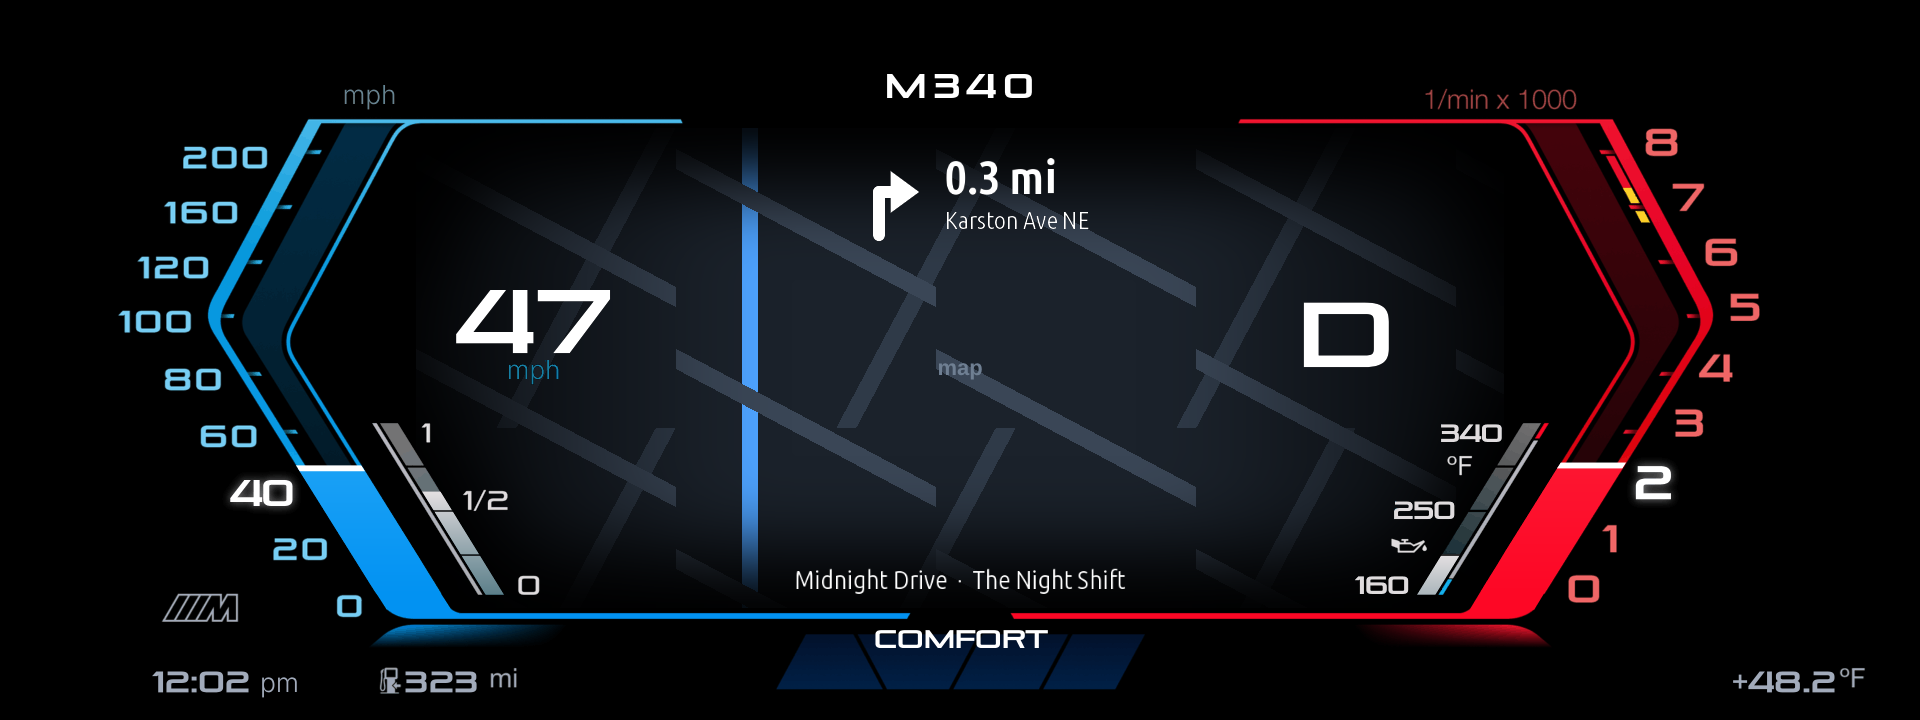
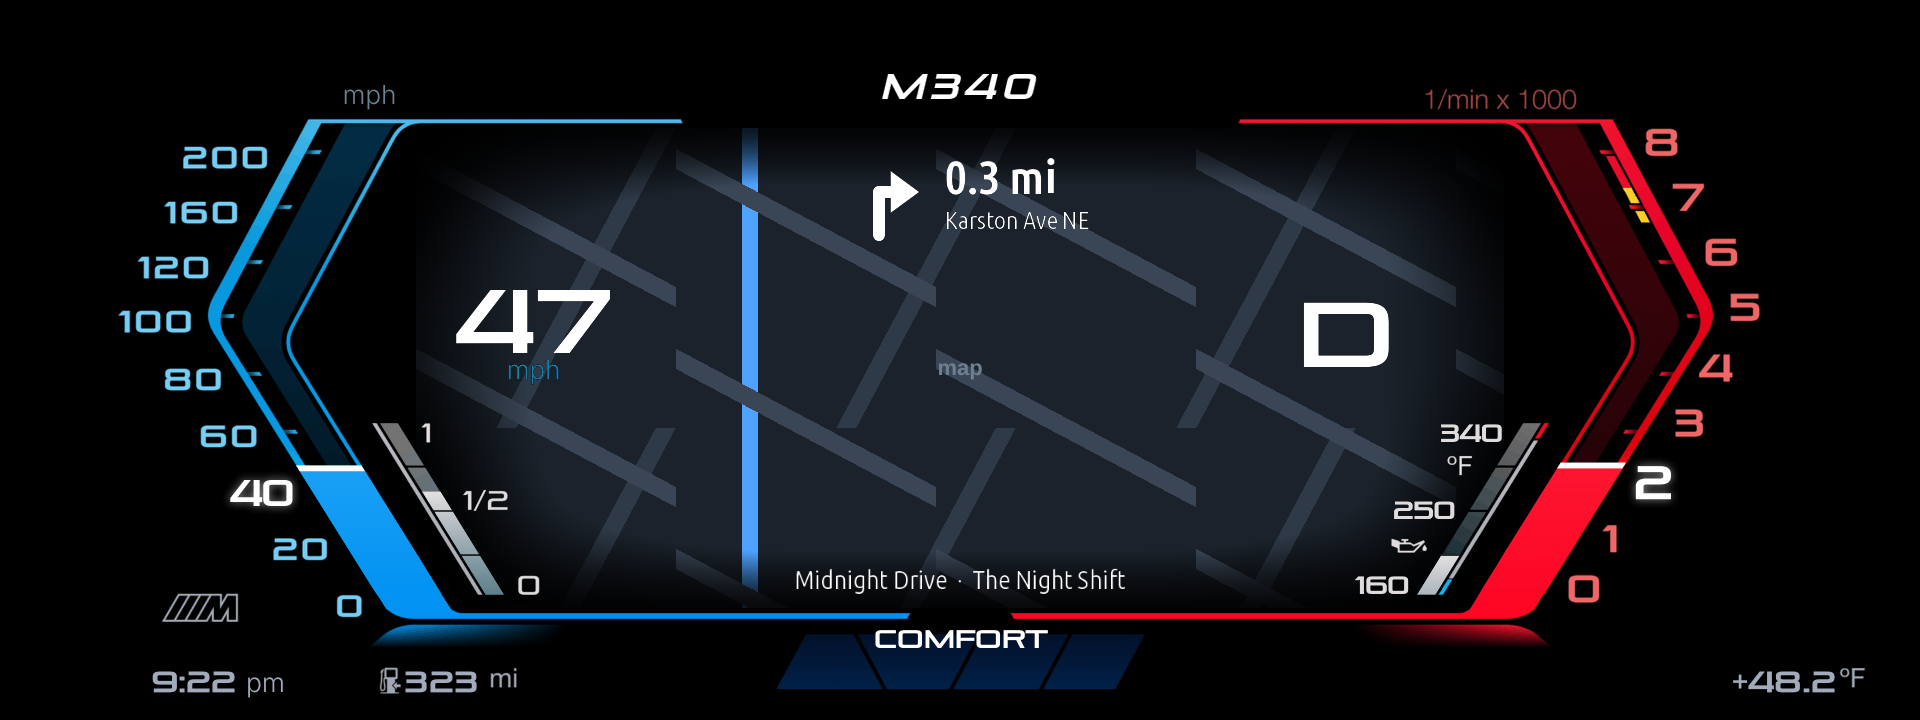
The song and the directions start on the car; the badge leans forward
The song (media.js) and the directions (directions.js) were started only when ctx.spec.signals declared their
interfaces, and the spec on the car (build.py's app-spec.json) has no signals: neither ever started on a car.
Cluster Layouts now asks for them (startData opts.media, opts.directions), and test_app runs on the car's spec
and checks both are watched. The M340 badge is baked leaning forward.
Cluster Layouts 0.32.1, Cluster Centre 0.9.5.

Claude-Session: https://claude.ai/code/session_01NEJZ4JkLAWdYBUEsKdjt1e

diff --git a/apps/cluster_layouts/m340_badge.js b/apps/cluster_layouts/m340_badge.js
@@ -1,8 +1,8 @@
 'use strict';
 /* GENERATED by tools/bake_badge.py: the M340i layout's badge ("M340", Pirulen) as an r8 picture. Do not edit. */
 const zlib = require('zlib');
-const BADGE = { w: 153, h: 32 };
[1 lines of base64/hex data omitted]
+const BADGE = { w: 163, h: 33 };
[1 lines of base64/hex data omitted]
 let px = null;
 /** The badge as a texture for a piece's `textures`. */
 function tex() {

diff --git a/tools/test_app.js b/tools/test_app.js
@@ -24,6 +24,9 @@ process.env.CLUSTER_INFO_DIR = fs.mkdtempSync(path.join(os.tmpdir(), 'ci-'));
 process.env.CLUSTER_SETTLE_MS = '0';
     process.env.CLUSTER_PRESENCE_DIR = fs.mkdtempSync(path.join(os.tmpdir(), 'cp-'));
 const SPEC = JSON.parse(fs.readFileSync(path.join(APP, 'app.json'), 'utf8'));
+// the app's spec on the car: build.py's runtime app-spec.json, without the signals
+const RT_SPEC = {};
+['id', 'title', 'version', 'screens', 'settings', 'config', 'startWidget'].forEach((k) => { RT_SPEC[k] = SPEC[k]; });
 const themes = require(path.join(KIT, 'themes'));
 const { Recorder: Canvas } = require(path.join(KIT, 'record'));
 const sleep = (ms) => new Promise((r) => setTimeout(r, ms));
@@ -33,14 +36,14 @@ const check = (name, fn) => { fn(); ok++; console.log('ok   ' + name); };
 (async () => {
     const S = {}, changes = [];
     SPEC.settings.forEach((s) => { S[s.key] = s.default; });
-    const handlers = {}, clicks = {}, warns = [];
+    const handlers = {}, clicks = {}, warns = [], watched = [];
     let pages = 0;
     const ctx = {
         app: {}, ui: { onClick(n, fn) { clicks[n] = fn; }, text() {}, image: async () => { pages++; } },
         settings: { get: (k) => S[k], set: (k, v) => { S[k] = v; changes.forEach((f) => f(k, v)); }, onChange(f) { changes.push(f); }, display: (k) => String(S[k]) },
         log: { info() {}, warn: (m) => warns.push(m), error: (m, e) => warns.push(m + ' ' + e) },
-        spec: SPEC, dataDir: fs.mkdtempSync(path.join(os.tmpdir(), 'cl-')),
-        signals: { watch: (iface, inst, h) => { Object.assign(handlers, h); return Promise.resolve({ available: true }); },
+        spec: RT_SPEC, dataDir: fs.mkdtempSync(path.join(os.tmpdir(), 'cl-')),
+        signals: { watch: (iface, inst, h) => { watched.push(iface); Object.assign(handlers, h); return Promise.resolve({ available: true }); },
             proxy: () => Promise.reject(new Error('no TASU here')), on: () => Promise.resolve(), onAvailable: () => Promise.resolve() },
         loop() {}, theme: () => themes.theme('m_tricolour'), canvas: (w, h) => new Canvas(w, h),
     };
@@ -51,6 +54,10 @@ const check = (name, fn) => { fn(); ok++; console.log('ok   ' + name); };
     check('every signal the app reads is declared in app.json', () => {
         const declared = [].concat(...Object.keys(SPEC.signals).map((i) => Object.keys(SPEC.signals[i])));
         Object.keys(handlers).forEach((h) => assert(declared.indexOf(h) >= 0, h));
+    });
+    check('the song and the directions are read with the spec the car has (no signals in it)', () => {
+        ['de.bmw.infotainment.hmi.hmimediastate.HmiMediaState', 'de.bmw.infotainment.navigation.guiding.Guidance',
+            'de.bmw.infotainment.a4a.carplay.CarPlayManager'].forEach((i) => assert(watched.indexOf(i) >= 0, i));
     });
     const eng = () => require(path.join(APP, 'engine')).startCluster.last;
     check('off by default: no layers at all (the stock cluster shows)', () => {

diff --git a/apps/cluster_centre/data.js b/apps/cluster_centre/data.js
@@ -320,9 +320,10 @@ function startData(ctx, opts) {
             if (p && p !== carPress) { carPress = p; log.info('car pressure unit: ' + p); }
         },
     }, 'units', { pollMs: 60000 });
-    /* the song the car's media player shows (media.js), for an app that declares the interface (Cluster Layouts):
+    /* the song the car's media player shows (media.js), for an app that asks for it (opts.media: Cluster Layouts, which
+     * declares the interface; the runtime spec on the car does not carry the declarations):
      * the centre screen's instance, each field's raw value kept for the Signals screen */
-    const media = (ctx.spec.signals || {})[Media.IFACE] ? Media.createMedia() : null;
+    const media = opts.media ? Media.createMedia() : null;
     if (media) {
         // (each change of what is read logged, with where each part came from: the log shows why a title is missing)
         let said = null;
@@ -337,9 +338,9 @@ function startData(ctx, opts) {
         }, log).then((sub) => { status.media = sub && sub.error ? 'error: ' + sub.error : 'subscribed'; log.info('media ' + status.media); })
             .catch((e) => { status.media = 'error: ' + ((e && e.message) || e); log.warn('media: ' + status.media); });
     }
-    /* the next turn while a route runs (directions.js), for an app that declares the guidance interfaces: asked only
+    /* the next turn while a route runs (directions.js), for an app that asks for it (opts.directions): asked only
      * while the M340i layout (the one that shows them) is shown with the car on and Settings > Directions is on */
-    const directions = (ctx.spec.signals || {})[Directions.EVENT_LIST.iface]
+    const directions = opts.directions
         ? Directions.startDirections(ctx, log, { wanted: () => active() && setting('directions') !== 'off' && setting('layout') === 'm340' }) : null;
     watch('de.bmw.infotainment.KombiIF', {
         statusRangeTankStatus: (v) => { fes('statusRangeTankStatus')(v); pickRanges(v); },

diff --git a/apps/cluster_layouts/data.js b/apps/cluster_layouts/data.js
@@ -320,9 +320,10 @@ function startData(ctx, opts) {
             if (p && p !== carPress) { carPress = p; log.info('car pressure unit: ' + p); }
         },
     }, 'units', { pollMs: 60000 });
-    /* the song the car's media player shows (media.js), for an app that declares the interface (Cluster Layouts):
+    /* the song the car's media player shows (media.js), for an app that asks for it (opts.media: Cluster Layouts, which
+     * declares the interface; the runtime spec on the car does not carry the declarations):
      * the centre screen's instance, each field's raw value kept for the Signals screen */
-    const media = (ctx.spec.signals || {})[Media.IFACE] ? Media.createMedia() : null;
+    const media = opts.media ? Media.createMedia() : null;
     if (media) {
         // (each change of what is read logged, with where each part came from: the log shows why a title is missing)
         let said = null;
@@ -337,9 +338,9 @@ function startData(ctx, opts) {
         }, log).then((sub) => { status.media = sub && sub.error ? 'error: ' + sub.error : 'subscribed'; log.info('media ' + status.media); })
             .catch((e) => { status.media = 'error: ' + ((e && e.message) || e); log.warn('media: ' + status.media); });
     }
-    /* the next turn while a route runs (directions.js), for an app that declares the guidance interfaces: asked only
+    /* the next turn while a route runs (directions.js), for an app that asks for it (opts.directions): asked only
      * while the M340i layout (the one that shows them) is shown with the car on and Settings > Directions is on */
-    const directions = (ctx.spec.signals || {})[Directions.EVENT_LIST.iface]
+    const directions = opts.directions
         ? Directions.startDirections(ctx, log, { wanted: () => active() && setting('directions') !== 'off' && setting('layout') === 'm340' }) : null;
     watch('de.bmw.infotainment.KombiIF', {
         statusRangeTankStatus: (v) => { fes('statusRangeTankStatus')(v); pickRanges(v); },

diff --git a/shared/data.js b/shared/data.js
@@ -320,9 +320,10 @@ function startData(ctx, opts) {
             if (p && p !== carPress) { carPress = p; log.info('car pressure unit: ' + p); }
         },
     }, 'units', { pollMs: 60000 });
-    /* the song the car's media player shows (media.js), for an app that declares the interface (Cluster Layouts):
+    /* the song the car's media player shows (media.js), for an app that asks for it (opts.media: Cluster Layouts, which
+     * declares the interface; the runtime spec on the car does not carry the declarations):
      * the centre screen's instance, each field's raw value kept for the Signals screen */
-    const media = (ctx.spec.signals || {})[Media.IFACE] ? Media.createMedia() : null;
+    const media = opts.media ? Media.createMedia() : null;
     if (media) {
         // (each change of what is read logged, with where each part came from: the log shows why a title is missing)
         let said = null;
@@ -337,9 +338,9 @@ function startData(ctx, opts) {
         }, log).then((sub) => { status.media = sub && sub.error ? 'error: ' + sub.error : 'subscribed'; log.info('media ' + status.media); })
             .catch((e) => { status.media = 'error: ' + ((e && e.message) || e); log.warn('media: ' + status.media); });
     }
-    /* the next turn while a route runs (directions.js), for an app that declares the guidance interfaces: asked only
+    /* the next turn while a route runs (directions.js), for an app that asks for it (opts.directions): asked only
      * while the M340i layout (the one that shows them) is shown with the car on and Settings > Directions is on */
-    const directions = (ctx.spec.signals || {})[Directions.EVENT_LIST.iface]
+    const directions = opts.directions
         ? Directions.startDirections(ctx, log, { wanted: () => active() && setting('directions') !== 'off' && setting('layout') === 'm340' }) : null;
     watch('de.bmw.infotainment.KombiIF', {
         statusRangeTankStatus: (v) => { fes('statusRangeTankStatus')(v); pickRanges(v); },

diff --git a/apps/cluster_layouts/main.js b/apps/cluster_layouts/main.js
@@ -57,7 +57,7 @@ mgu.run({
         const showing = () => settings.get('show') === 'on';
         // every reading (data.js, shared with Cluster Centre): the car's signals, the engine unit over UDS for
         // what a layout needs (layout.needs), eDrive Live's charge and power while shown
-        const D = startData(ctx, { shown: showing, tyres: true });
+        const D = startData(ctx, { shown: showing, tyres: true, media: true, directions: true });
         const car = D.car;
         // the driving assistant (dap.js), for the layouts that show it (layout.dap: Modern wide's road, Sport's
         // cruise control): subscribed once one is first shown

diff --git a/tools/bake_badge.py b/tools/bake_badge.py
@@ -1,9 +1,9 @@
-"""Bake the M340i layout's badge ("M340" at the top, in Pirulen, the design's numerals' face) as an r8 picture:
+"""Bake the M340i layout's badge ("M340" at the top, in Pirulen, the design's numerals' face, slanted forward) as an r8 picture:
 python3 tools/bake_badge.py Pirulen.ttf  ->  apps/cluster_layouts/m340_badge.js (the font file is not kept here)."""
 import base64, os, sys, zlib
 from PIL import Image, ImageDraw, ImageFont
 
-TEXT, SIZE, TRACK, PAD = 'M340', 34, 6, 4
+TEXT, SIZE, TRACK, PAD, SLANT = 'M340', 36, 5, 4, 0.24   # SLANT: the forward lean, x per y
 font = ImageFont.truetype(sys.argv[1], SIZE)
 W = sum(font.getbbox(c)[2] for c in TEXT) + TRACK * (len(TEXT) - 1) + 2 * PAD + 40
 img = Image.new('L', (W, SIZE * 2), 0)
@@ -12,6 +12,9 @@ x = PAD
 for c in TEXT:
     d.text((x, PAD), c, font=font, fill=255)
     x += font.getlength(c) + TRACK
+# leaned forward: each row moved right by SLANT for each row above the baseline
+img = img.crop((0, 0, img.width + int(SLANT * img.height) + 2, img.height))
+img = img.transform(img.size, Image.AFFINE, (1, SLANT, -SLANT * img.height, 0, 1, 0), resample=Image.BICUBIC)
 box = img.getbbox()
 img = img.crop((max(0, box[0] - PAD), max(0, box[1] - PAD), box[2] + PAD, box[3] + PAD))
 w, h = img.size
